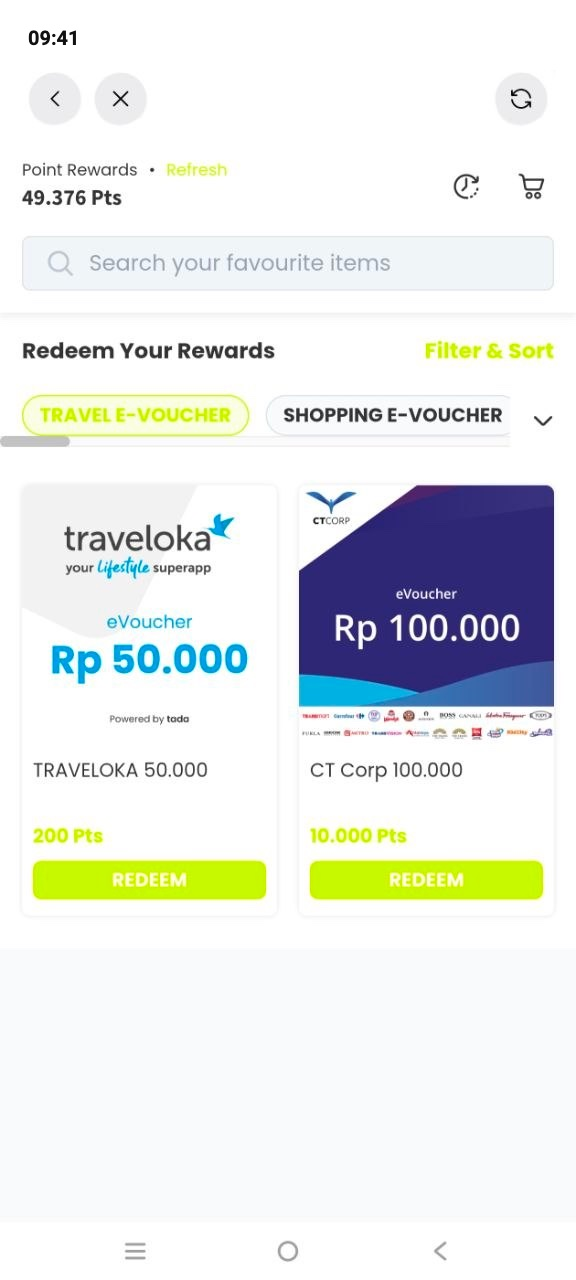
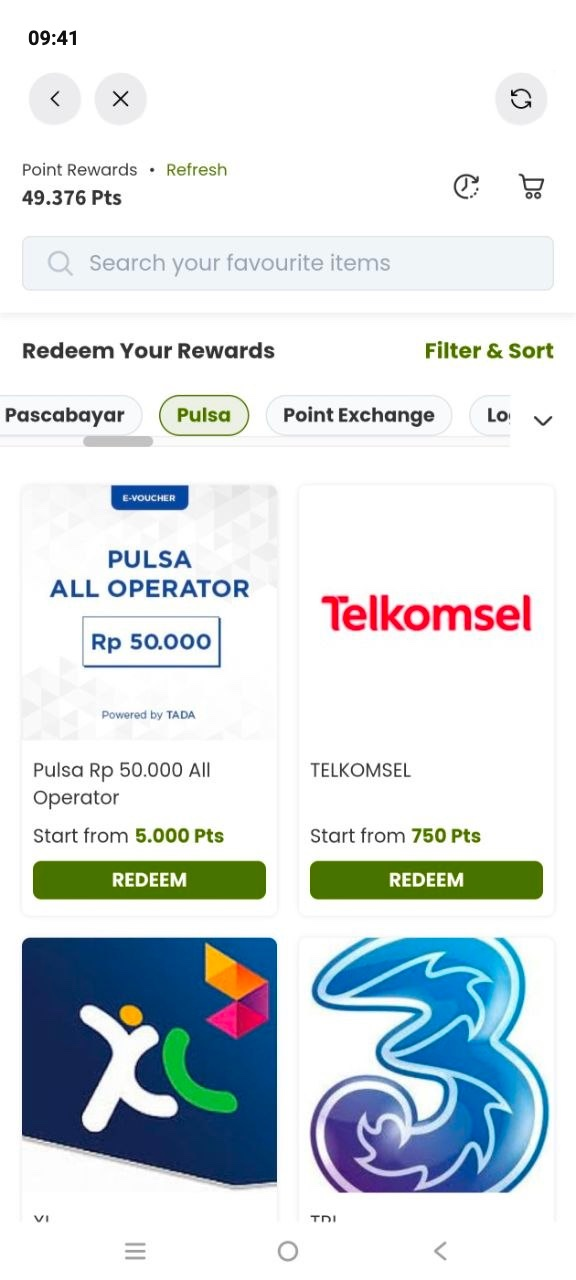
Replace HSB Mall screenshot with updated version

diff --git a/index.html b/index.html
@@ -440,7 +440,7 @@ footer .wrap{display:flex;flex-wrap:wrap;gap:12px;justify-content:space-between}
         <div class="jtext"><span class="k"><span class="id">LANGKAH 8</span><span class="en">STEP 8</span></span>
           <h3><span class="id">Tukar di HSB Mall</span><span class="en">Redeem at HSB Mall</span></h3>
           <p><span class="id">Nasabah yang memenuhi syarat menekan <b>Tukar</b> dan HSB Mall terbuka di dalam aplikasi. Stok, harga, dan jumlah koin tampil real-time. Setelah dikonfirmasi, penukaran tidak bisa dibatalkan.</span><span class="en">Eligible clients tap <b>Redeem</b> and HSB Mall opens inside the app. Stock, price, and coin cost are live. Once confirmed, a redemption cannot be cancelled.</span></p>
-          <div class="tip" style="margin-bottom:10px"><b><span class="id">Perhatikan</span><span class="en">Note</span></b><span><span class="id">Di HSB Mall, koin tampil sebagai <b>"Pts" (Point Rewards)</b> — <b>1 koin = 1 Pts</b>. Hadiah dikelompokkan per kategori (mis. Travel e-Voucher, Shopping e-Voucher), bisa dicari, difilter, dan diurutkan. Tekan <b>REDEEM</b> untuk menukar.</span><span class="en">In HSB Mall, coins are shown as <b>"Pts" (Point Rewards)</b> — <b>1 coin = 1 Pts</b>. Rewards are grouped by category (e.g. Travel e-Voucher, Shopping e-Voucher) and can be searched, filtered, and sorted. Tap <b>REDEEM</b> to redeem.</span></span></div>
+          <div class="tip" style="margin-bottom:10px"><b><span class="id">Perhatikan</span><span class="en">Note</span></b><span><span class="id">Di HSB Mall, koin tampil sebagai <b>"Pts" (Point Rewards)</b> — <b>1 koin = 1 Pts</b>. Hadiah dikelompokkan per kategori (mis. Pulsa, Pascabayar, e-Voucher), bisa dicari, difilter, dan diurutkan. Tekan <b>REDEEM</b> untuk menukar.</span><span class="en">In HSB Mall, coins are shown as <b>"Pts" (Point Rewards)</b> — <b>1 coin = 1 Pts</b>. Rewards are grouped by category (e.g. mobile credit, postpaid bills, e-vouchers) and can be searched, filtered, and sorted. Tap <b>REDEEM</b> to redeem.</span></span></div>
           <div class="tip"><b><span class="id">Ingatkan</span><span class="en">Remind</span></b><span><span class="id">Pengiriman hanya ke Indonesia; pajak &amp; ongkir ditanggung nasabah.</span><span class="en">Delivery within Indonesia only; tax &amp; shipping are on the client.</span></span></div></div>
       </div>
 
